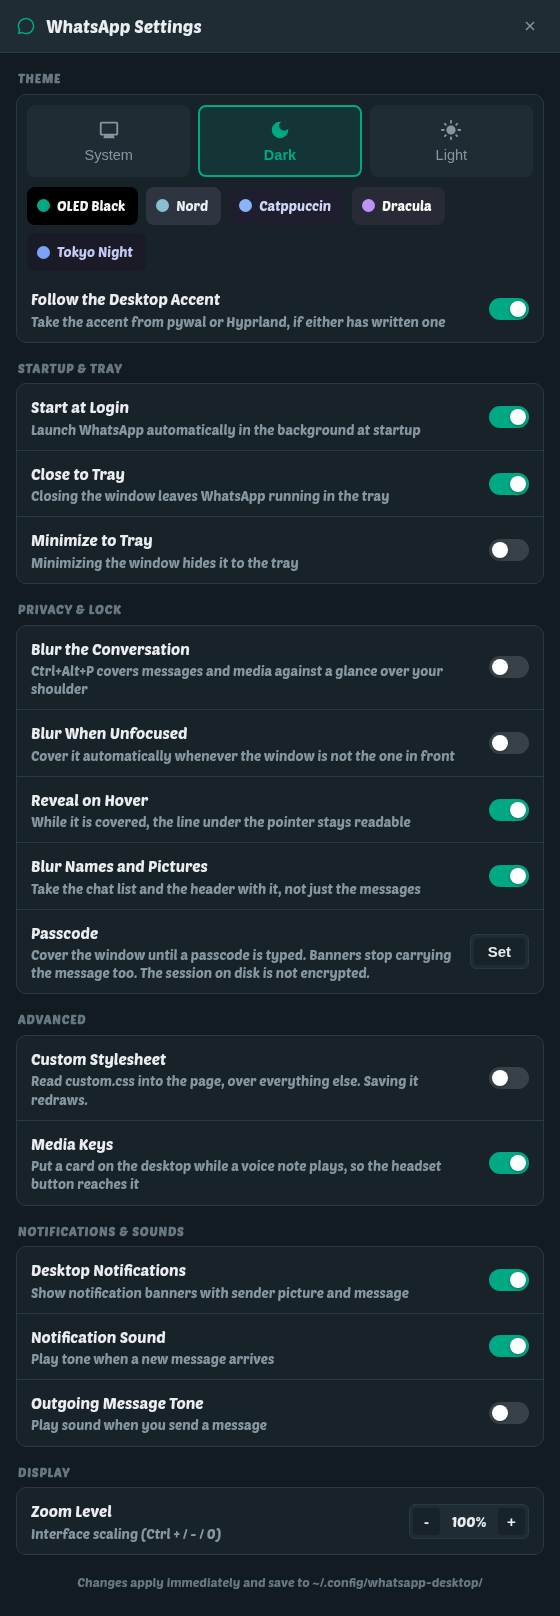
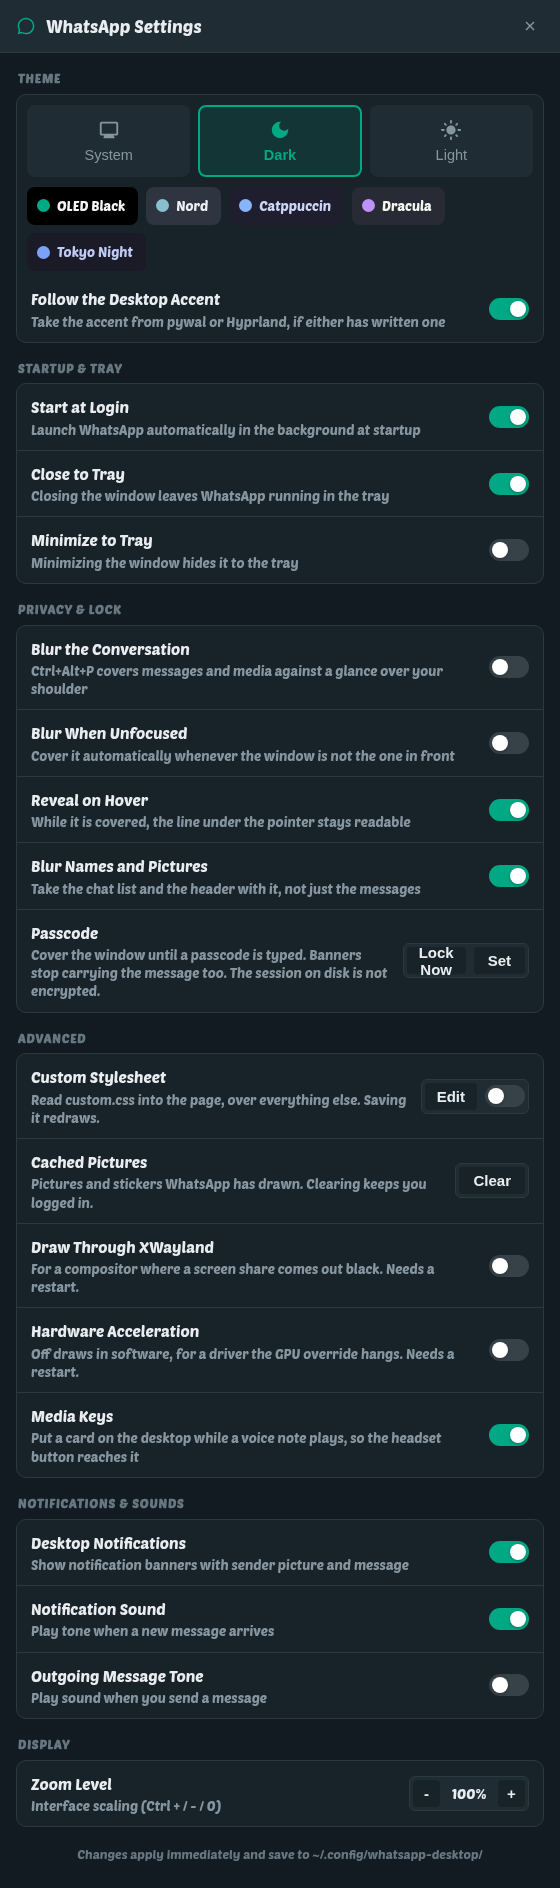
lock: Ctrl+Alt+L, and the custom.css button that was never drawn
Two loose ends of my own. openCustomCss wrote a template, created the
file on first ask and opened it in the desktop's editor, and nothing
called it -- the switch in Settings turned the stylesheet on and there
was no way to reach the file it read. There is an Edit button now.

And the passcode could be set but not used: it locked on an idle timer or
with the desktop's own lock, and the moment somebody actually wants it is
the moment they are standing up. Ctrl+Alt+L, and a Lock Now button that
appears only once there is a passcode -- a button that locks a client
with nothing to unlock it is a way to lock yourself out of nothing, and a
greyed-out one is a question nobody answered.

[hidden] now hides. A class that sets `display` beats the browser's own
rule for the attribute, so .stepper-btn with display:flex stayed on
screen after script set `hidden` on it -- which is exactly how Lock Now
was visible with no passcode set. Said once, for both windows.

The command palette from the same branch is deliberately not here. Nine
of its ten actions already have a route -- Settings is Ctrl+comma, Fonts
is on the tray menu, the shield is Ctrl+Alt+P, the cache is a button
above -- and the tenth switched accounts. A second window to reach what
is already one press away is the kind of thing this client is trying not
to grow.

diff --git a/src/settings.html b/src/settings.html
@@ -163,7 +163,10 @@
             <div class="row-title">Passcode</div>
             <div class="row-desc" id="lockDesc">Cover the window until a passcode is typed. Banners stop carrying the message too. The session on disk is not encrypted.</div>
           </div>
-          <div class="stepper"><button class="stepper-btn" id="lockBtn" style="width:auto;padding:0 14px">Set</button></div>
+          <div class="stepper" style="gap:8px">
+            <button class="stepper-btn" id="lockNowBtn" style="width:auto;padding:0 12px" hidden>Lock Now</button>
+            <button class="stepper-btn" id="lockBtn" style="width:auto;padding:0 14px">Set</button>
+          </div>
         </div>
       </div>
     </div>
@@ -177,10 +180,13 @@
             <div class="row-title">Custom Stylesheet</div>
             <div class="row-desc">Read custom.css into the page, over everything else. Saving it redraws.</div>
           </div>
-          <label class="switch">
-            <input type="checkbox" id="customCssToggle">
-            <span class="slider"></span>
-          </label>
+          <div class="stepper" style="gap:8px">
+            <button class="stepper-btn" id="editCssBtn" style="width:auto;padding:0 12px">Edit</button>
+            <label class="switch">
+              <input type="checkbox" id="customCssToggle">
+              <span class="slider"></span>
+            </label>
+          </div>
         </div>
 
         <div class="row">
@@ -320,6 +326,8 @@
     const cacheDesc = document.getElementById('cacheDesc');
     const clearCacheBtn = document.getElementById('clearCacheBtn');
     const forceX11Toggle = document.getElementById('forceX11Toggle');
+    const editCssBtn = document.getElementById('editCssBtn');
+    const lockNowBtn = document.getElementById('lockNowBtn');
     const hwAccelToggle = document.getElementById('hwAccelToggle');
     const lockDesc = document.getElementById('lockDesc');
     const zoomOutBtn = document.getElementById('zoomOut');
@@ -475,6 +483,16 @@
         });
       });
 
+    /* The file is created, with its examples, on the first ask rather than at
+       install -- so a config directory nobody has opened stays empty. */
+    editCssBtn.addEventListener('click', async () => {
+      if (window.api && window.api.openCustomCss) await window.api.openCustomCss();
+    });
+
+    lockNowBtn.addEventListener('click', () => {
+      if (window.api && window.api.lockNow) window.api.lockNow();
+    });
+
     accentToggle.addEventListener('change', async () => {
       if (window.api) await window.api.setSetting('view.follow-desktop-accent', accentToggle.checked);
     });
@@ -504,6 +522,10 @@
         const status = await window.api.lockStatus();
         hasPasscode = !!(status && status.hasPasscode);
         lockBtn.textContent = hasPasscode ? 'Remove' : 'Set';
+        /* Only offered once there is a passcode -- a button that locks a client
+           with nothing to unlock it would be a way to lock yourself out of
+           nothing, and a disabled button is just a question nobody answered. */
+        lockNowBtn.hidden = !hasPasscode;
       } catch (e) { /* an older client: leave the button saying Set */ }
     }
 

diff --git a/src/main.js b/src/main.js
@@ -1332,6 +1332,15 @@ const createWindow = () => {
         input.code === 'KeyP') {
       event.preventDefault();
       toggleShield();
+      return;
+    }
+    /* Lock now, rather than waiting out the idle timer -- which is the half of
+       a passcode that gets used, because the moment you want it is the moment
+       you are standing up. Does nothing without one set. */
+    if (input.type === 'keyDown' && input.control && input.alt && !input.shift &&
+        input.code === 'KeyL') {
+      event.preventDefault();
+      if (!lockApp('Ctrl+Alt+L')) console.log('lock: no passcode set, so nothing to lock');
     }
   });
 
@@ -2458,7 +2467,11 @@ const wireIpc = () => {
     catch (err) { return { ok: false, why: err.message }; }
   });
 
-  ipcMain.on('wa:lock-now', () => lockApp('asked for'));
+  ipcMain.on('lock:now', () => {
+    if (!lockApp('the settings window')) console.log('lock: no passcode set, so nothing to lock');
+  });
+
+  ipcMain.handle('custom-css:open', async () => { await openCustomCss(); return true; });
 
   ipcMain.handle('settings:get', () => {
     return {

diff --git a/src/settings-preload.js b/src/settings-preload.js
@@ -16,6 +16,8 @@ contextBridge.exposeInMainWorld('api', {
   restart: () => ipcRenderer.send('settings:restart'),
   /* The passcode rows. Setting one and clearing one both go through the client,
      which is the only side that has the salt and the hash. */
+  openCustomCss: () => ipcRenderer.invoke('custom-css:open'),
+  lockNow: () => ipcRenderer.send('lock:now'),
   cacheSize: () => ipcRenderer.invoke('storage:size'),
   clearCache: () => ipcRenderer.invoke('storage:clear'),
   lockStatus: () => ipcRenderer.invoke('lock:status'),

diff --git a/src/window.css b/src/window.css
@@ -381,6 +381,13 @@ input:checked + .slider:before {
   transition: all 0.15s ease;
 }
 
+/* A class that sets `display` beats the browser's own rule for the attribute,
+   so an element given `hidden` in script stays on screen. Said once, for
+   everything in these windows, rather than per control. */
+[hidden] {
+  display: none !important;
+}
+
 .stepper-btn:hover {
   background-color: var(--accent);
   color: white;

diff --git a/tools/capture-windows.js b/tools/capture-windows.js
@@ -51,6 +51,8 @@ ipcMain.handle('settings:get', () => ({
     .filter(([k]) => k !== 'dark' && k !== 'light')
     .map(([k, p]) => [k, { name: p.name, bg: p.bg, text: p.text, accent: p.accent }])),
   followDesktopAccent: true,
+  forceX11: false,
+  hardwareAcceleration: true,
   privacyStealth: false,
   privacyAutoBlur: false,
   privacyHoverReveal: true,
